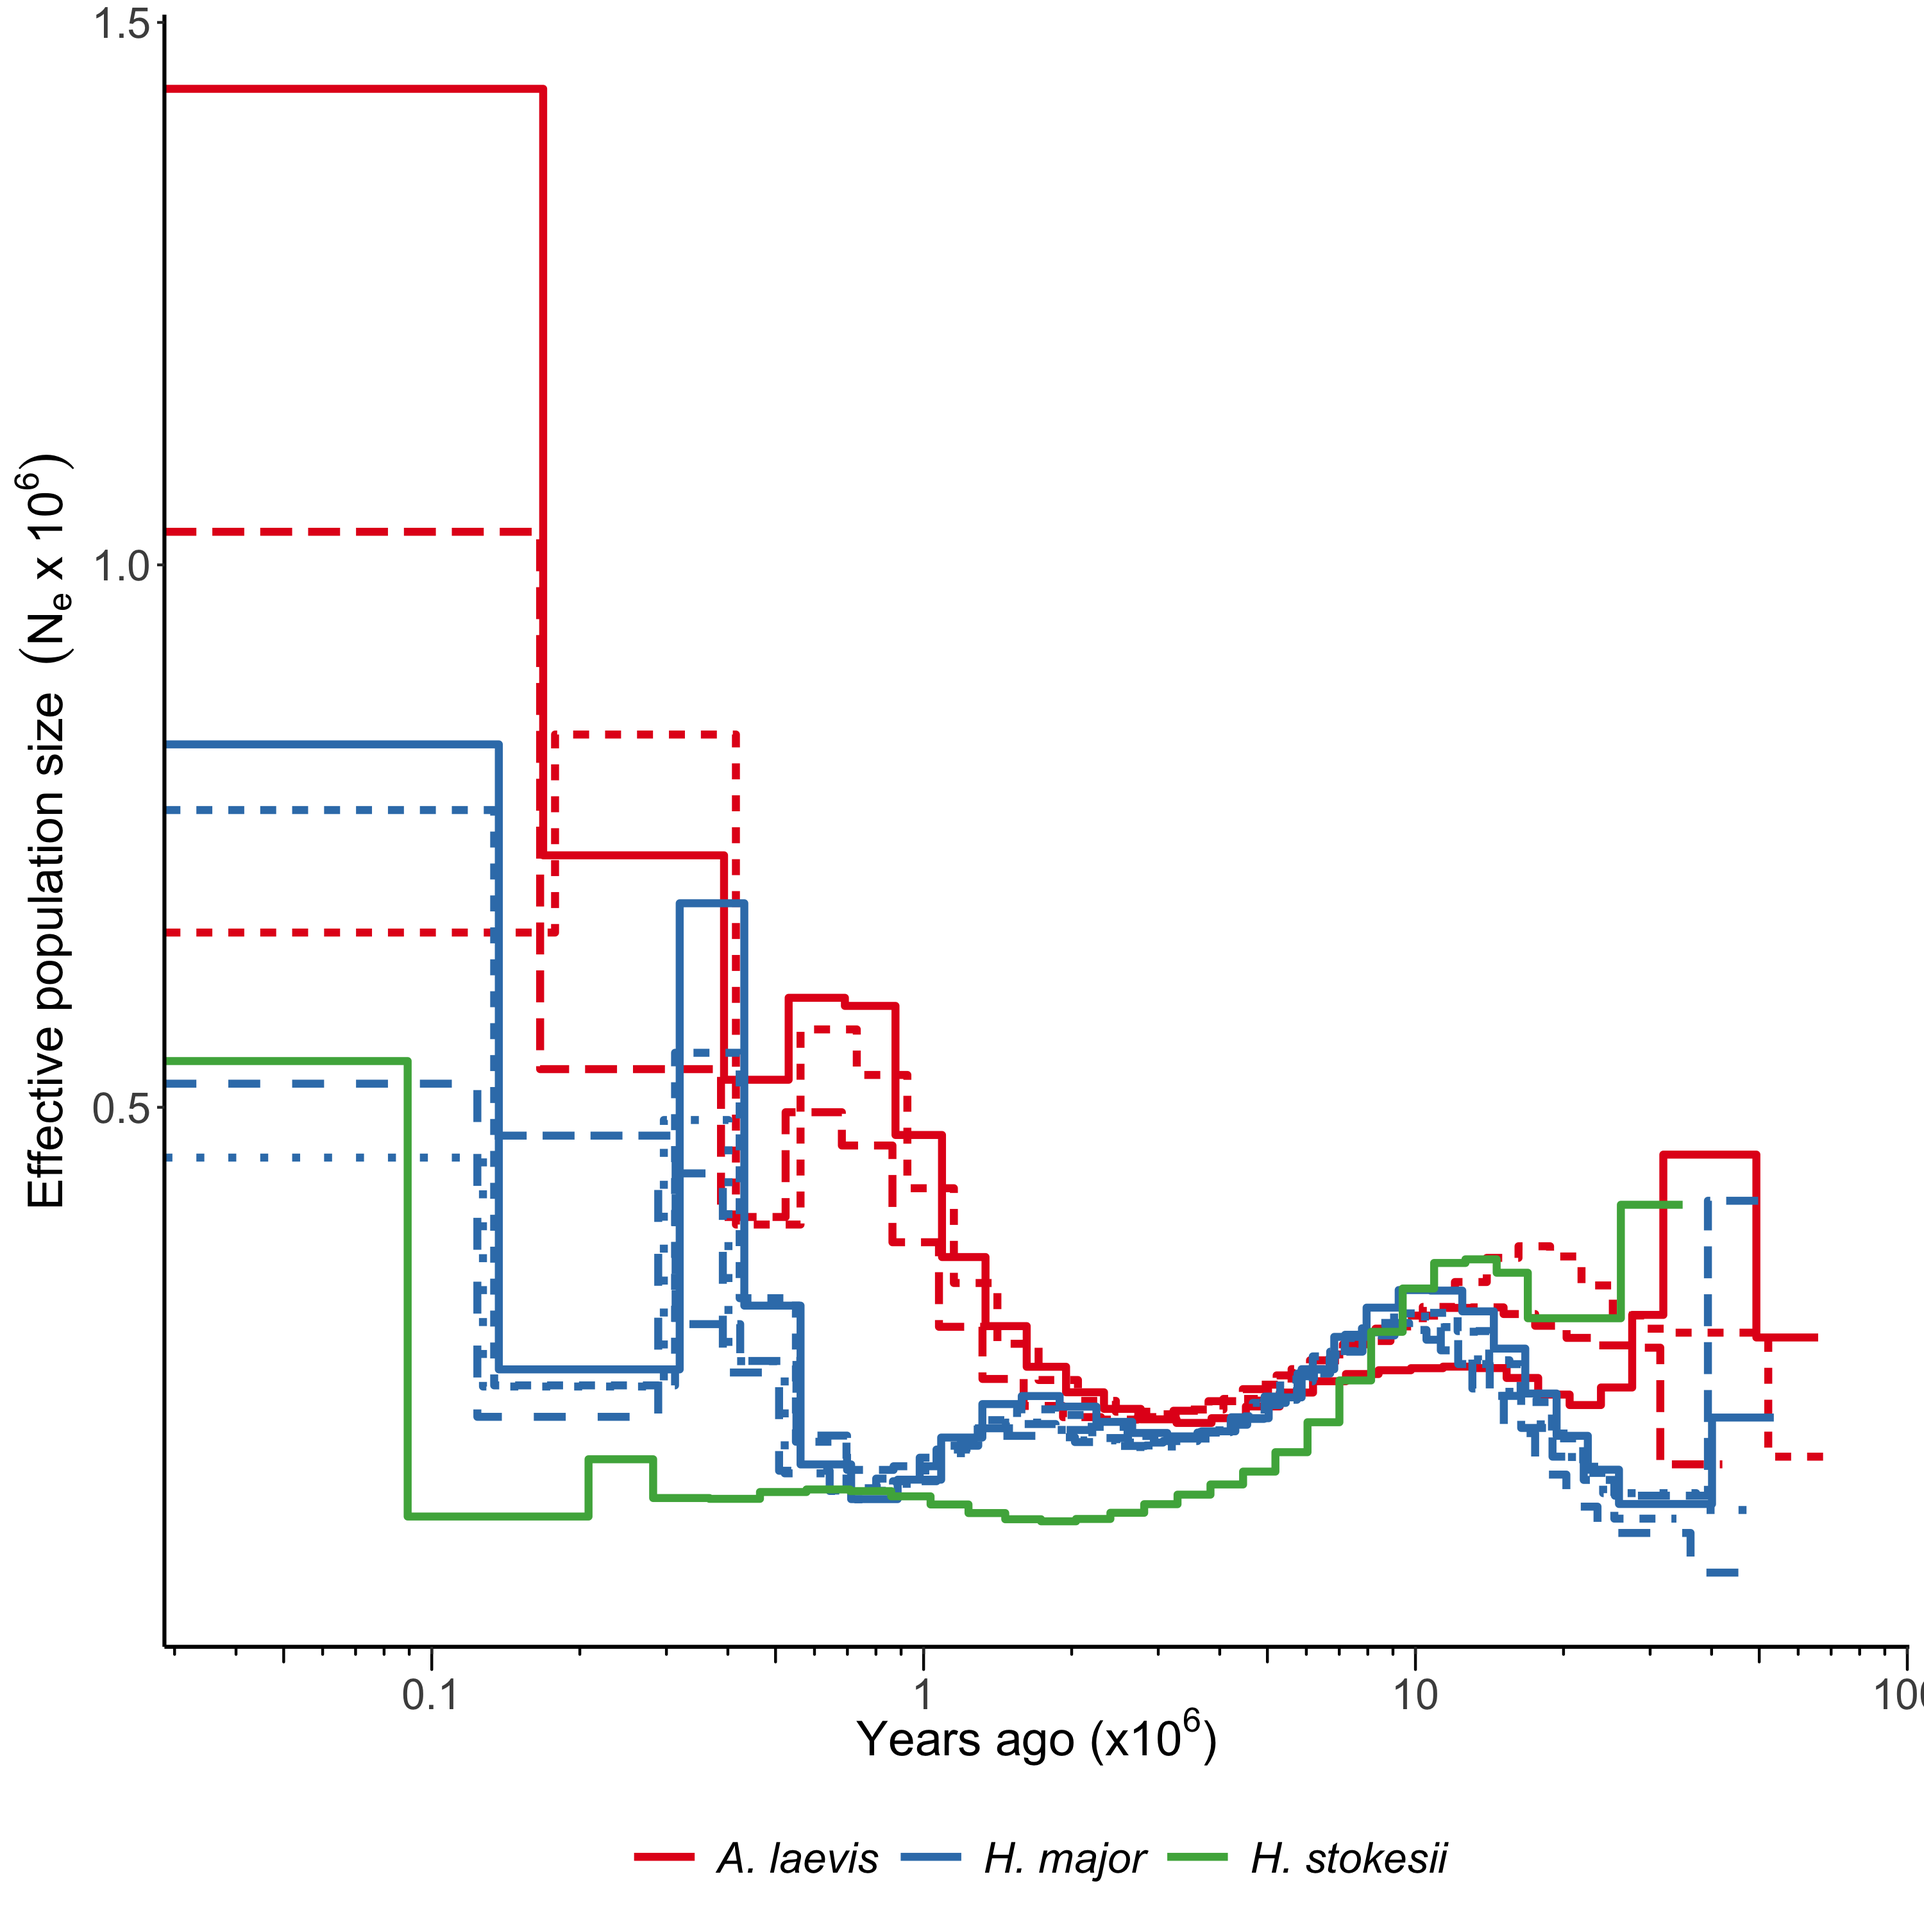
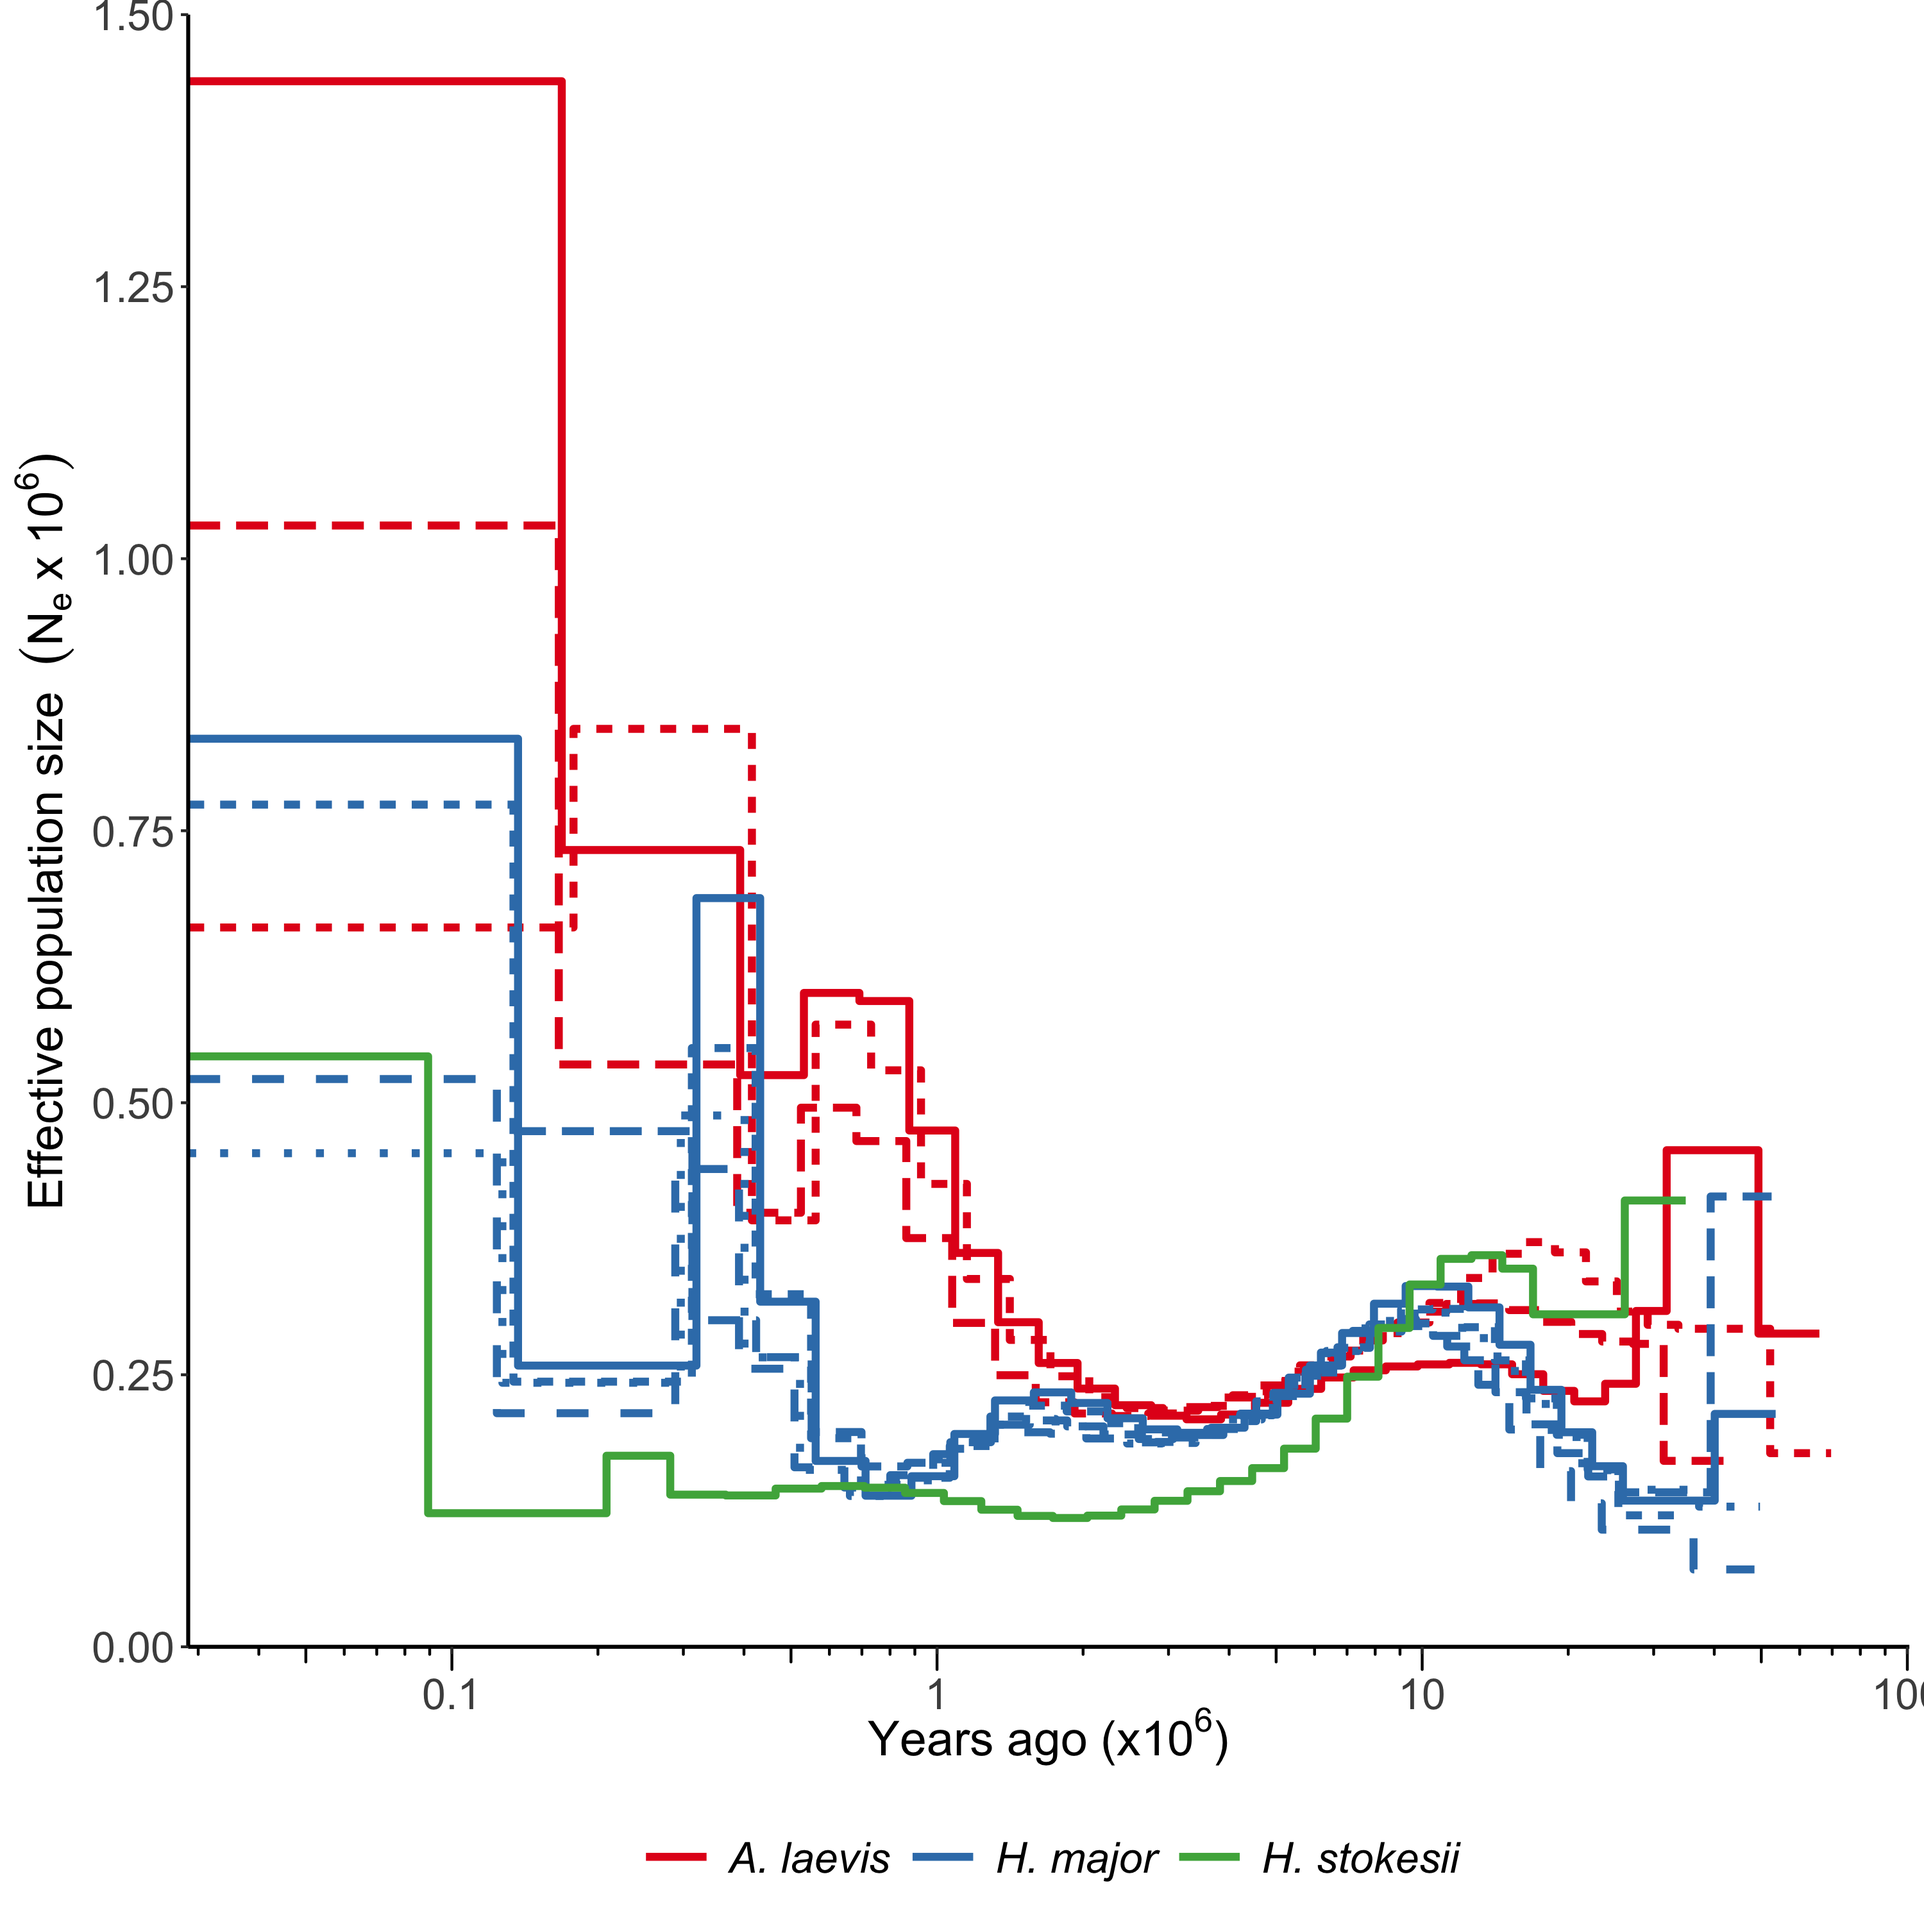
Update

diff --git a/results/demography/README.md b/results/demography/README.md
@@ -110,7 +110,12 @@ plot_stairway <- df_msmc |>
     ) +
     annotation_logticks(sides = 'b', outside = TRUE, ) +
     coord_cartesian(clip = "off" ) +
-    scale_y_continuous(labels = scales::label_number(scale = 1e-6)) +
+    scale_y_continuous(
+        limits = c(0, 1.5e6),
+        breaks = seq(0, 1.5e6, 2.5e5),
+        labels = scales::label_number(scale = 1e-6),
+        expand = c(0, 0)
+    ) +
     labs(
         y = bquote("Effective population size "~(N[e]~x~10^6)),
         x = bquote("Years ago (x10"^6*')')
